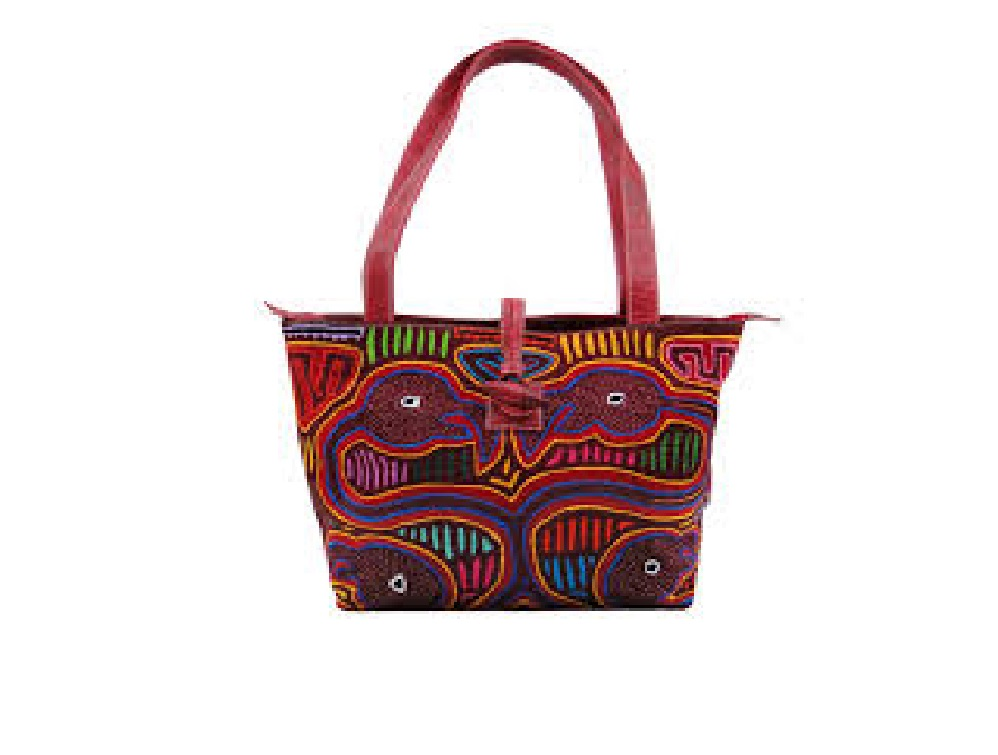
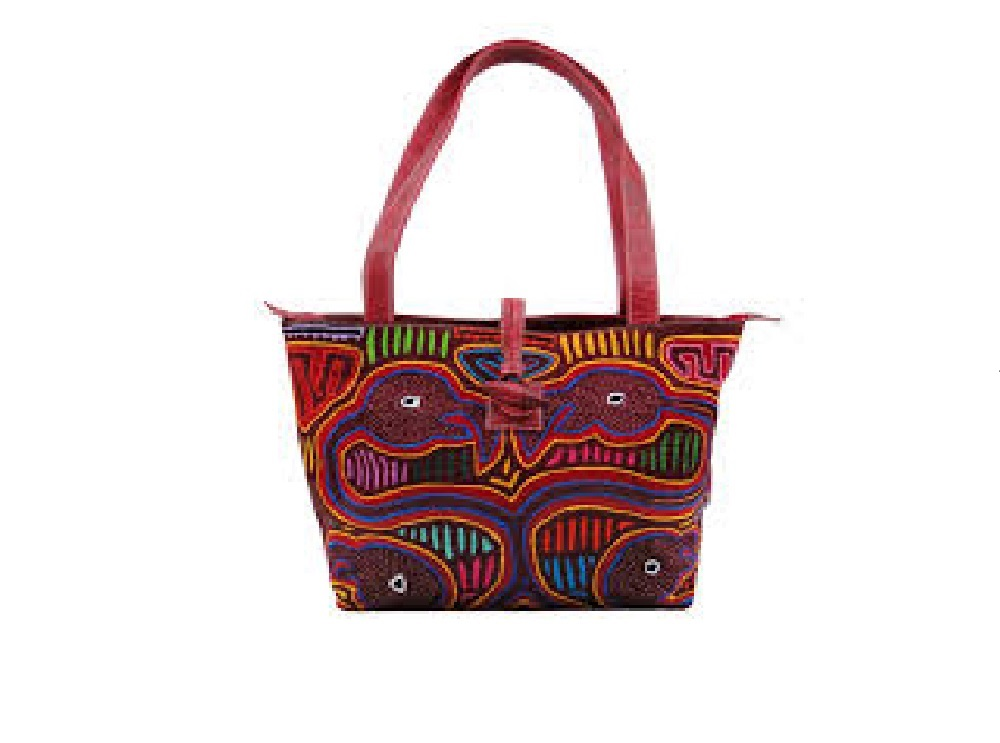
ajuste de imagenes por resolucion

Changed region(s): [[0.2485, 0.0619, 0.7766, 0.8358], [0.3727, 0.0619, 0.497, 0.3405]]

diff --git a/compras.html b/compras.html
@@ -239,7 +239,7 @@
                 <div class="col-md-4">
                     <div class="card mb-4 product-wap rounded-0">
                         <div class="card rounded-0">
-                            <img class="card-img rounded-0 img-fluid" src="assests/img/producto3.webp">
+                            <img class="card-img rounded-0 img-fluid" src="assests/img/producto3.png">
                             <div class="card-img-overlay rounded-0 product-overlay d-flex align-items-center justify-content-center">
                                 <ul class="list-unstyled">
                                     <li><a class="btn btn-success text-white" href="shop-single.html"><i class="far fa-heart"></i></a></li>
@@ -276,7 +276,7 @@
                 <div class="col-md-4">
                     <div class="card mb-4 product-wap rounded-0">
                         <div class="card rounded-0">
-                            <img class="card-img rounded-0 img-fluid" src="assests/img/producto4.webp">
+                            <img class="card-img rounded-0 img-fluid" src="assests/img/producto4.jpg">
                             <div class="card-img-overlay rounded-0 product-overlay d-flex align-items-center justify-content-center">
                                 <ul class="list-unstyled">
                                     <li><a class="btn btn-success text-white" href="#"><i class="far fa-heart"></i></a></li>
